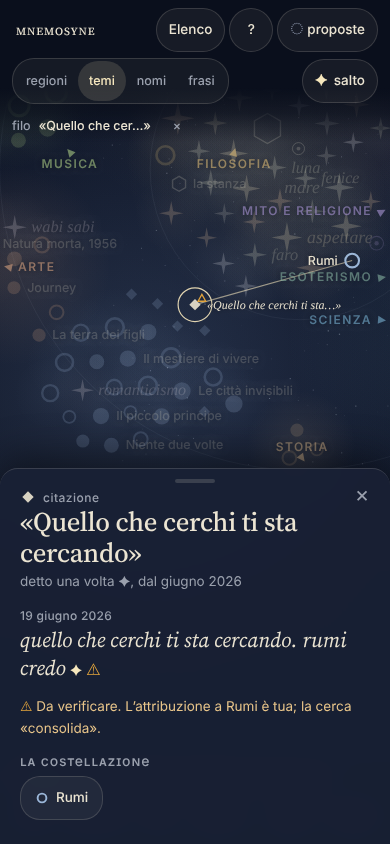
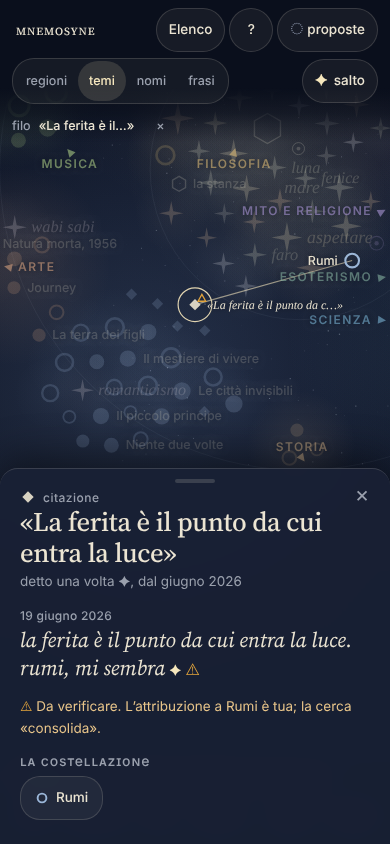
sito: il cielo, frasi sintetiche riscritte senza coincidenze
Claude-Session: https://claude.ai/code/session_016XqALyJhm7DNNCswg6oWy7

diff --git a/progetto/sito/grafico-cielo/index.html b/progetto/sito/grafico-cielo/index.html
@@ -256,7 +256,7 @@ const TEMI = [
   ['attenzione','attenzione','idea',13],['aspettare','aspettare','idea',8],['dolore','dolore','idea',6],['tempo','tempo','idea',8],
   ['liberta','libertà','idea',5],['memoria','memoria','idea',7],['silenzio','silenzio','idea',6],['corpo','corpo','idea',4],
   ['verita','verità','idea',3],['lentezza','lentezza','idea',5],['gratitudine','gratitudine','idea',2],
-  ['serve-ricordare','a che cosa serve ricordare?','domanda',3],['resta-giorno','che cosa resta di un giorno?','domanda',3],
+  ['serve-ricordare','perché tengo tutto?','domanda',3],['resta-giorno','dove va una giornata?','domanda',3],
   ['senza-paura','chi sarei senza paura?','domanda',2],['perche-rimando','perché rimando?','domanda',3],['casa-q','che cosa vuol dire casa?','domanda',4],
   ['mare','mare','simbolo',9],['faro','faro','simbolo',4],['porta','porta','simbolo',4],['luna','luna','simbolo',3],['fiume','fiume','simbolo',3],
   ['chiave','chiave','simbolo',3],['fenice','fenice','simbolo',2],['finestra','finestra','simbolo',2],['treno','treno','simbolo',3],
@@ -332,8 +332,8 @@ const OPERE = [
 ];
 // Le citazioni: [slug, testo, attribuita-a, autore (solo se verificato), esito, riferimento, testo del memo]
 const CITAZIONI = [
-  ['l-inferno-dei-viventi','L’inferno dei viventi non è qualcosa che sarà','italo-calvino','italo-calvino','verificata','Le città invisibili, parte nona, l’ultimo dialogo','da tatuare in piccolo: non è inferno. calvino'],
-  ['sisifo-felice','Bisogna immaginare Sisifo felice','albert-camus','albert-camus','verificata','Il mito di Sisifo, capitolo «Il mito di Sisifo», ultima riga','bisogna immaginare sisifo felice. camus. lo scrivo sul frigo'],
+  ['l-inferno-dei-viventi','L’inferno dei viventi non è qualcosa che sarà','italo-calvino','italo-calvino','verificata','Le città invisibili, parte nona, l’ultimo dialogo','calvino, l’inferno dei viventi. in piccolo, per i tatuaggi'],
+  ['sisifo-felice','Bisogna immaginare Sisifo felice','albert-camus','albert-camus','verificata','Il mito di Sisifo, capitolo «Il mito di Sisifo», ultima riga','camus e sisifo felice: la frase la metto sul frigo'],
   ['attenzione-generosita','L’attenzione è la forma più rara e più pura della generosità','simone-weil','simone-weil','verificata','lettera a Joë Bousquet, 13 aprile 1942','simone weil: l’attenzione è la forma più rara della generosità. o qualcosa del genere'],
   ['diventa-cio-che-sei','Diventa ciò che sei','friedrich-nietzsche','friedrich-nietzsche','verificata','La gaia scienza, § 270','diventa ciò che sei. nietzsche, credo. ma prima di lui qualcun altro'],
   ['il-cuore-ha-le-sue-ragioni','Il cuore ha le sue ragioni, che la ragione non conosce','blaise-pascal','blaise-pascal','verificata','Pensieri, fr. 277 (Brunschvicg)','il cuore ha le sue ragioni. pascal. abusata ma vera'],
@@ -345,9 +345,9 @@ const CITAZIONI = [
   ['amor-fati','Amor fati','friedrich-nietzsche','friedrich-nietzsche','verificata','La gaia scienza, § 276','amor fati. da tatuare, forse, in piccolo'],
   ['stessa-sostanza-dei-sogni','Siamo fatti della stessa sostanza dei sogni','william-shakespeare','william-shakespeare','verificata','La tempesta, atto IV, scena 1','siamo fatti della stessa sostanza dei sogni. shakespeare. stanotte ci credo'],
   ['nessun-uomo-e-un-isola','Nessun uomo è un’isola','john-donne','john-donne','verificata','Devotions upon Emergent Occasions, Meditazione XVII','nessun uomo è un’isola. john donne. me l’hanno detto a pranzo'],
-  ['quello-che-cerchi','Quello che cerchi ti sta cercando','rumi','',null,null,'quello che cerchi ti sta cercando. rumi credo'],
-  ['pensare-e-fermarsi','Pensare è fermarsi','hannah-arendt','',null,null,'chi è che diceva che pensare è fermarsi? arendt credo'],
-  ['i-gufi','I gufi non sono quello che sembrano','david-lynch','',null,null,'il gufo che non è quello che sembra, la frase di twin peaks. da tatuare? forse'],
+  ['quello-che-cerchi','La ferita è il punto da cui entra la luce','rumi','',null,null,'la ferita è il punto da cui entra la luce. rumi, mi sembra'],
+  ['pensare-e-fermarsi','Pensare vuol dire interrompersi','hannah-arendt','',null,null,'pensare vuol dire interrompersi: di chi era? mi pare arendt'],
+  ['i-gufi','I gufi non sono quello che sembrano','david-lynch','',null,null,'la battuta sui gufi di twin peaks. per i tatuaggi, magari'],
 ];
 const RACCOLTE = [['tatuaggi','tatuaggi','per i tatuaggi'],['la-stanza','la stanza','per la parete della stanza']];
 
@@ -370,62 +370,62 @@ const AFF = {
 
 // Le frasi a mano (dal prototipo, senza delicati e senza persone della vita).
 const MANO = [
-  ['origine', "l'attenzione è l'unica cosa che posso regalare davvero", { temi: ['attenzione'] }],
-  ['origine', 'niente colore. solo linea.', { temi: ['linea'], serve: 'tatuaggi' }],
-  ['origine', 'spinoza e la gioia come passaggio a qualcosa di più grande', { nomina: ['baruch-spinoza'], temi: ['gioia'] }],
-  ['origine', 'ogni tatuaggio una parola sola, e il braccio come una frase che si scrive negli anni', { serve: 'tatuaggi' }],
-  ['origine', 'il mare mi rimette in ordine le cose senza che io faccia niente', { temi: ['mare'] }],
-  ['origine', 'leggere seneca la mattina come lavarsi la faccia', { nomina: ['seneca'], temi: ['stoicismo'] }],
-  ['origine', 'tutte le canzoni di nick drake sembrano scritte alle cinque del pomeriggio', { nomina: ['nick-drake'], temi: ['malinconia'] }],
-  ['2025-10-14', "il mare d'inverno è l'unico posto dove nn devo spiegare niente a nessuno", { temi: ['mare'], prop: ['solitudine'] }],
-  ['2025-11-03', 'nick drake stamattina, pink moon in loop. malinconia buona', { nomina: ['pink-moon'], temi: ['malinconia'], stato: true }],
-  ['2025-11-20', 'letto la fine delle città invisibili in treno. mi ha spaccato', { nomina: ['le-citta-invisibili'], temi: ['treno'] }],
-  ['2025-12-02', "rileggo spinoza, l'etica, il libro quarto. le passioni come cose da capire non da vincere", { nomina: ['baruch-spinoza','etica'] }],
-  ['2025-12-18', 'stasera ho capito che nn faccio attenzione, aspetto solo il mio turno per parlare', { temi: ['attenzione','aspettare'], prop: ['ascolto'] }],
-  ['2026-01-09', 'la rabbia è energia che non ha ancora trovato la sua forma', { temi: ['rabbia'] }],
-  ['2026-01-21', 'fare attenzione a una persona è diverso da guardarla', { temi: ['attenzione'] }],
-  ['2026-02-06', 'il dolore non insegna niente. è solo dolore', { temi: ['dolore'], pos: true }],
-  ['2026-02-17', 'la società della stanchezza di han. tutti stanchi di essere liberi', { nomina: ['la-societa-della-stanchezza'], temi: ['stanchezza','liberta'] }],
-  ['2026-03-01', 'questa la voglio. una chiave senza porta, solo linea', { temi: ['chiave','linea'], serve: 'tatuaggi' }],
-  ['2026-03-14', 'aspettare non è perdere tempo, è il tempo che lavora', { temi: ['aspettare','tempo'], pos: true }],
-  ['2026-03-30', 'orfeo che si volta. sul polpaccio, da tatuare', { nomina: ['orfeo'], serve: 'tatuaggi', acc: ['soglia'] }],
-  ['2026-04-11', 'battiato, la cura, in macchina col finestrino giù. una quiete strana', { nomina: ['la-cura'], temi: ['quiete'], stato: true }],
-  ['2026-04-27', "da piccolo pensavo che il mare d'inverno fosse un altro mare", { temi: ['mare'], prop: ['nostalgia'], vissuto: true }],
-  ['2026-05-08', 'stalker di tarkovskij, visto finalmente. la stanza che esaudisce i desideri veri, non quelli che dici', { nomina: ['stalker'], acc: ['soglia'], prop: ['desiderio'] }],
-  ['2026-05-22', 'una poesia della szymborska che dice che niente succede due volte. la voglio rileggere', { nomina: ['niente-due-volte'], fru: 'da-fare' }],
-  ['2026-06-04', 'che cosa resta di un giorno se nessuno lo racconta?', { temi: ['resta-giorno'], chiedi: true }],
-  ['2026-06-19', 'il faro spento, piccolo, sulla caviglia. da tatuare', { temi: ['faro'], serve: 'tatuaggi' }],
-  ['2026-07-02', 'twin peaks rivisto, la signora del ceppo. mi fa ridere e paura insieme', { nomina: ['twin-peaks','la-signora-del-ceppo'], temi: ['paura'] }],
-  ['2026-07-25', 'il caduceo di ermete trismegisto, a linea sottile. per i tatuaggi', { nomina: ['ermete-trismegisto'], temi: ['linea'], serve: 'tatuaggi' }],
-  ['2026-08-12', 'paterson di jarmusch, rivisto. ogni giorno uguale e ogni giorno una poesia', { nomina: ['paterson'], temi: ['lentezza'] }],
-  ['2026-09-09', 'una porta socchiusa disegnata sul quaderno. la soglia mi interessa più della stanza', { temi: ['porta'], acc: ['soglia'] }],
-  ['2026-10-25', "forse il dolore è l'unico posto dove ho imparato qualcosa", { temi: ['dolore'], pos: true }],
-  ["2026-10-26", "a mare oggi c'era una luce che non sapevo di ricordare", { temi: ['mare','memoria'] }],
-  ['2026-10-28', "l'epicureismo che ho studiato a scuola era una caricatura. il piacere come assenza di dolore è una cosa seria", { temi: ['epicureismo','dolore'] }],
-  ['2026-10-29', 'mi sono rotto di aspettare. aspettare è una scusa', { temi: ['aspettare'], pos: true }],
-  ['2026-10-31', 'stasera malinconia. nn triste, malinconia', { temi: ['malinconia'], stato: true }],
-  ['2026-11-01', 'nostalgia di una casa che nn ho mai avuto', { temi: ['nostalgia','casa-q'], stato: true, prop: ['radici'] }],
-  ['2026-11-02', 'wabi sabi: la crepa come parte del vaso. da tatuare, forse', { temi: ['wabi-sabi'], serve: 'tatuaggi', prop: ['impermanenza'] }],
-  ['2026-11-03', 'sogno: una città fatta solo di porte', { temi: ['porta'] }],
+  ['origine', "guardare bene qualcuno costa più che parlargli", { temi: ['attenzione'] }],
+  ['origine', 'tutto in nero, tratti sottili, niente ombre', { temi: ['linea'], serve: 'tatuaggi' }],
+  ['origine', 'spinoza dice che la gioia allarga. oggi mi torna', { nomina: ['baruch-spinoza'], temi: ['gioia'] }],
+  ['origine', 'vorrei che i segni sul braccio si leggessero in fila, piano, uno ogni estate', { serve: 'tatuaggi' }],
+  ['origine', 'davanti all’acqua i pensieri si mettono in fila da soli', { temi: ['mare'] }],
+  ['origine', 'due righe di seneca col caffè e la giornata parte dritta', { nomina: ['seneca'], temi: ['stoicismo'] }],
+  ['origine', 'nick drake ha la luce delle giornate corte', { nomina: ['nick-drake'], temi: ['malinconia'] }],
+  ['2025-10-14', "la spiaggia vuota a gennaio non mi chiede niente", { temi: ['mare'], prop: ['solitudine'] }],
+  ['2025-11-03', 'pink moon tre volte di fila prima di uscire. una malinconia che tiene compagnia', { nomina: ['pink-moon'], temi: ['malinconia'], stato: true }],
+  ['2025-11-20', 'le ultime pagine delle città invisibili tra due fermate. sono sceso tardi', { nomina: ['le-citta-invisibili'], temi: ['treno'] }],
+  ['2025-12-02', "l'etica, quarta parte: capire una passione la sgonfia. provo", { nomina: ['baruch-spinoza','etica'] }],
+  ['2025-12-18', 'a cena ascoltavo solo per rispondere. me ne sono accorto tardi', { temi: ['attenzione','aspettare'], prop: ['ascolto'] }],
+  ['2026-01-09', 'la rabbia di oggi era tutta nelle mani, non sapevo dove appoggiarla', { temi: ['rabbia'] }],
+  ['2026-01-21', 'si può fissare qualcuno senza vederlo affatto', { temi: ['attenzione'] }],
+  ['2026-02-06', 'non credo che soffrire migliori qualcuno', { temi: ['dolore'], pos: true }],
+  ['2026-02-17', 'han ha ragione: ci sfiniamo da soli, e lo chiamiamo libertà', { nomina: ['la-societa-della-stanchezza'], temi: ['stanchezza','liberta'] }],
+  ['2026-03-01', 'una chiave piccola, senza serratura, a tratto unico', { temi: ['chiave','linea'], serve: 'tatuaggi' }],
+  ['2026-03-14', 'certe cose maturano solo se le lasci stare', { temi: ['aspettare','tempo'], pos: true }],
+  ['2026-03-30', 'orfeo un attimo prima di girarsi. lo vorrei sulla schiena', { nomina: ['orfeo'], serve: 'tatuaggi', acc: ['soglia'] }],
+  ['2026-04-11', 'la cura di battiato al semaforo rosso. una calma che non mi aspettavo', { nomina: ['la-cura'], temi: ['quiete'], stato: true }],
+  ['2026-04-27', "a otto anni credevo che d'inverno il mare se ne andasse altrove", { temi: ['mare'], prop: ['nostalgia'], vissuto: true }],
+  ['2026-05-08', 'stalker, finalmente. la zona come un posto che ti legge dentro', { nomina: ['stalker'], acc: ['soglia'], prop: ['desiderio'] }],
+  ['2026-05-22', 'la poesia della szymborska sul fatto che ogni giorno capita una volta sola. da rileggere', { nomina: ['niente-due-volte'], fru: 'da-fare' }],
+  ['2026-06-04', 'dove va una giornata se non la scrivo?', { temi: ['resta-giorno'], chiedi: true }],
+  ['2026-06-19', 'un faro minuscolo vicino al malleolo, per i tatuaggi', { temi: ['faro'], serve: 'tatuaggi' }],
+  ['2026-07-02', 'ripreso twin peaks: la signora col ceppo mi inquieta e mi diverte', { nomina: ['twin-peaks','la-signora-del-ceppo'], temi: ['paura'] }],
+  ['2026-07-25', 'un caduceo, quello di ermete trismegisto, fino fino. per i tatuaggi', { nomina: ['ermete-trismegisto'], temi: ['linea'], serve: 'tatuaggi' }],
+  ['2026-08-12', 'paterson di nuovo: la stessa strada, un verso diverso', { nomina: ['paterson'], temi: ['lentezza'] }],
+  ['2026-09-09', 'ho disegnato uno stipite senza muro intorno. mi piace il punto di passaggio', { temi: ['porta'], acc: ['soglia'] }],
+  ['2026-10-25', "però le cose che so davvero le ho imparate stando male", { temi: ['dolore'], pos: true }],
+  ["2026-10-26", "sul molo una luce che conoscevo, senza sapere da dove", { temi: ['mare','memoria'] }],
+  ['2026-10-28', "epicuro non parlava di banchetti. parlava di stare senza turbamento", { temi: ['epicureismo','dolore'] }],
+  ['2026-10-29', 'basta rimandare. l’attesa era un alibi', { temi: ['aspettare'], pos: true }],
+  ['2026-10-31', 'serata malinconica, ma senza peso', { temi: ['malinconia'], stato: true }],
+  ['2026-11-01', 'mi manca una cucina in cui non ho mai abitato', { temi: ['nostalgia','casa-q'], stato: true, prop: ['radici'] }],
+  ['2026-11-02', 'wabi sabi: la ciotola rotta vale di più dopo. idea per un tatuaggio', { temi: ['wabi-sabi'], serve: 'tatuaggi', prop: ['impermanenza'] }],
+  ['2026-11-03', 'sognato un paese di scale che non portano da nessuna parte', { temi: ['porta'] }],
   // trascrizioni (regola 7): il gesto e il commento sono tuoi ✦; le parole d'altri ○, una riga, con opera e passo
   ['2026-02-24', 'Da ricordare ogni lunedì.', { altrui: { cosa: 'l’apertura delle Lettere a Lucilio', riga: 'Vindica te tibi', luogo: 'Seneca, Lettere a Lucilio, I, 1' }, nomina: ['lettere-a-lucilio'], temi: ['tempo'] }],
   ['2026-06-30', 'Questa la terrei sul braccio, piccola.', { altrui: { cosa: 'un passo delle Lettere a un giovane poeta', riga: 'abbi pazienza verso tutto ciò che è irrisolto nel tuo cuore (resa mia)', luogo: 'Rilke, Lettere a un giovane poeta, lettera IV, 16 luglio 1903' }, nomina: ['lettere-a-un-giovane-poeta'], temi: ['aspettare'], serve: 'tatuaggi' }],
 ];
-const SEME = [{ nodi: ['attenzione','mare'], testo: 'una persona che cerca il punto in cui le cose smettono di essere rumore' }];
+const SEME = [{ nodi: ['attenzione','mare'], testo: 'qualcuno che vuole togliere il superfluo finché resta la voce' }];
 
 // I modelli dei memo sintetici, per genere. {n} = il nome come lo scrivi tu.
 const MOD = {
   stato: ['stasera {n}. nn so da dove arriva', '{n}, di nuovo. ma meno di ieri', 'mi sono svegliato con addosso {n}', 'oggi tutto sapeva di {n}', '{n} in treno, guardando fuori', 'scrivo solo per dire: {n}. e basta', 'una {n} che nn fa male, stranamente'],
   idea: ['{n}: ci torno sempre, da qualsiasi parte parto', 'forse {n} è la parola che cercavo da settimane', 'pensavo a {n} in treno. nn ne vengo a capo', 'tutto quello che leggo ultimamente parla di {n}', '{n} non si spiega, si pratica', 'ho scritto {n} sul margine del quaderno e l’ho cerchiato due volte'],
   domanda: ['{n} ci penso da giorni', 'ancora: {n}', '{n} stamattina la risposta mi sembrava ovvia. stasera no', 'me lo chiedo di nuovo: {n}'],
-  simbolo: ['{n} visto in sogno, di nuovo', 'ho disegnato {n} sul quaderno senza pensarci', '{n} come immagine di tutto questo mese', '{n}. nn so perché mi torna in mente', 'da piccolo {n} mi sembrava un’altra cosa'],
+  simbolo: ['{n} visto in sogno, di nuovo', 'ho disegnato {n} sul quaderno senza pensarci', '{n} come immagine di tutto questo mese', '{n}. nn so perché mi torna in mente', 'da bambino {n} mi faceva un altro effetto'],
   corrente: ['{n}: più ci leggo meno mi sembra una dottrina', '{n} spiegato bene, finalmente', 'a scuola {n} era una pagina del manuale. adesso è un modo di stare'],
-  stile: ['{n}, solo {n}. per i tatuaggi', 'niente colore. {n}. per i tatuaggi'],
-  canzone: ['{n} in loop stamattina', '{n} in macchina col finestrino giù', '{n} alle due di notte, in cuffia', 'riascoltata {n}. sempre la stessa fitta'],
+  stile: ['{n}, solo {n}. per i tatuaggi', 'solo nero, {n}. per i tatuaggi'],
+  canzone: ['{n} in loop stamattina', '{n} guidando verso casa', '{n} alle due di notte, in cuffia', 'riascoltata {n}. sempre la stessa fitta'],
   album: ['riascoltato {n} tutto di fila', '{n} mentre cucinavo. perfetto'],
-  libro: ['finito {n}. mi ha spaccato', '{n}, da leggere', 'sottolineato mezzo {n}', '{n} in treno, tre pagine e poi guardavo fuori', 'ripreso {n} dopo anni. è un altro libro'],
+  libro: ['finito {n}. sono rimasto zitto un bel po', '{n}, da leggere', 'sottolineato mezzo {n}', '{n} in treno, tre pagine e poi guardavo fuori', 'ripreso {n} dopo anni. è un altro libro'],
   poesia: ['{n}, letta ad alta voce in cucina', '{n}: la voglio sapere a memoria'],
-  film: ['visto {n} stasera. ci penserò', '{n}, da vedere', 'rivisto {n}. il finale mi ha distrutto'],
+  film: ['visto {n} stasera. ci penserò', '{n}, da vedere', 'rivisto {n}. il finale mi è rimasto addosso'],
   serie: ['{n}, un episodio a sera', '{n} finita. mi manca già'],
   fumetto: ['{n}, letto tutto in una notte'], immagine: ['{n}: ci sono rimasto davanti dieci minuti', '{n} come sfondo del telefono, da oggi'],
   gioco: ['{n} finito alle tre di notte. nn me l’aspettavo'],
@@ -506,7 +506,7 @@ for (const [id, , , cerchia, campo, peso] of PERSONE) {
 // le citazioni: un memo che la nomina
 for (const c of CITAZIONI) {
   const [id, , , , , , memo] = c; if (F.some((f) => f.nomina.includes(id))) continue;
-  const tt = temiDi(id); const o = { nomina: [id], serve: memo.includes('tatuare') ? 'tatuaggi' : null, chiedi: memo.includes('?') };
+  const tt = temiDi(id); const o = { nomina: [id], serve: /tatua/.test(memo) ? 'tatuaggi' : null, chiedi: memo.includes('?') };
   if (tt.length) o.temi = [tt[0]];
   if (id === 'i-gufi') o.nomina.push('twin-peaks');
   if (id === 'l-inferno-dei-viventi') o.nomina.push('le-citta-invisibili');
